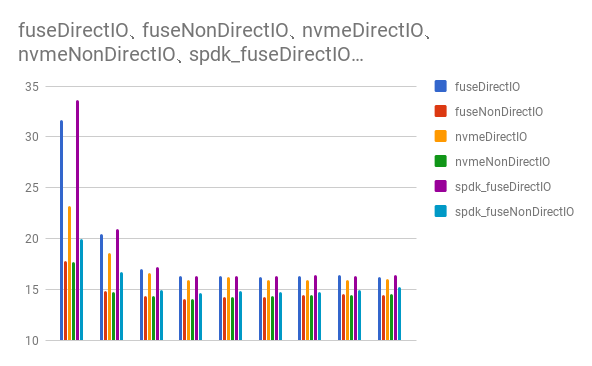
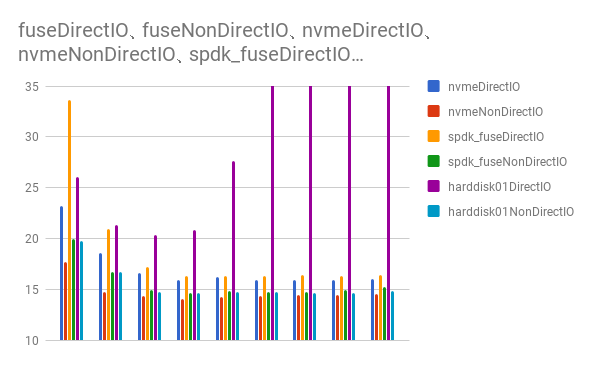
add description

diff --git a/doc/README.md b/doc/README.md
@@ -10,6 +10,10 @@ These are the explaination about benchmarking, middleware, etc.
 
 Benchmarks are taken under the following conditions.
 
+* hardDiskDirectIO
+    * Using hard disk with page caching
+* hardDiskNonDirectIO
+    * USing hard disk without page caching
 * nvmeDirectIO
     * Using NVMe SSD with page caching
 * nvmeNonDirectIO
@@ -24,6 +28,7 @@ spdk fuse is a fuse system which accesses files by spdk.
 ### Result
 
 Here is the result of benchmark.  
+Th data about hard disk are omitted in the line chart.  
 
 ![Bar Chart](image/bar_chart.png)  
 
